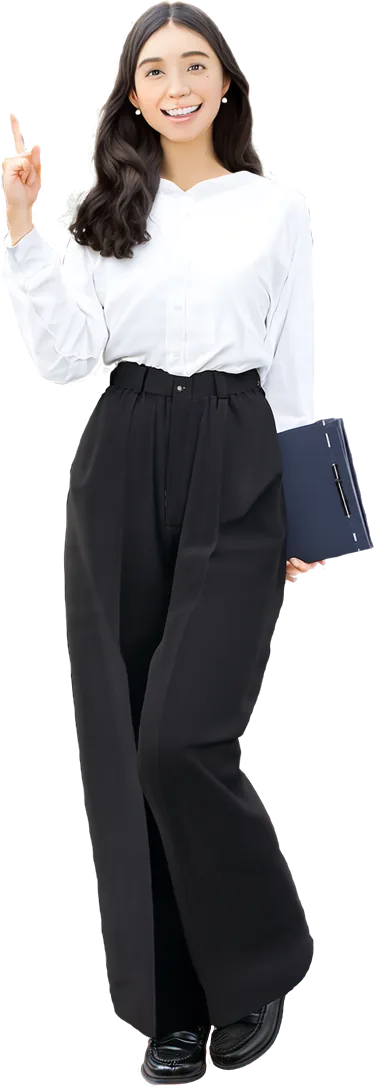
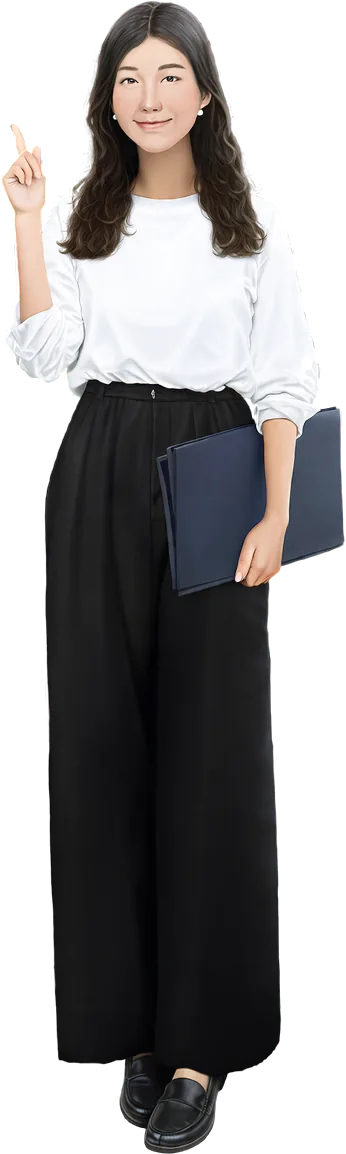
About: Answer has her own notes, and her room is set like Ask's
Where Ask's yellow notes carry a question mark, Answer's are blue with a
light bulb in the same marker, and pop out round her head the way Ask's
did. Answer is generated the way Ask was, so the two read as one kind of
photo, with a closed-mouth smile. The desk gets a takeaway coffee, a
smaller lamp and books, and a cane desk chair pulled up in front of it.

Claude-Session: https://claude.ai/code/session_012ad1UvDNx4pbuDZ2wZJ92U

diff --git a/components/about/story-scenes.tsx b/components/about/story-scenes.tsx
@@ -328,6 +328,21 @@ export function OpeningScene() {
 
 /* ── 1: and this is Answer ───────────────────────────────────────────────── */
 
+/**
+ * The answers, against Ask's questions: the same note in the same marker,
+ * blue where Ask's are yellow, with a light bulb drawn where Ask's has a
+ * question mark, popping out round Answer's head as she gets it. Two sit between the window (its right edge
+ * 658) and her raised hand, three fan out to the right above the bookshelf
+ * (its top 430); all under the title.
+ */
+const ANSWERS = [
+  { spot: "top-0 left-4 lg:top-[295px] lg:left-[1020px]", tilt: "-rotate-6", size: "h-16 lg:h-[110px]" },
+  { spot: "hidden lg:block lg:top-[250px] lg:left-[680px]", tilt: "rotate-12", size: "lg:h-[90px]" },
+  { spot: "hidden lg:block lg:top-[255px] lg:left-[1170px]", tilt: "rotate-3", size: "lg:h-[95px]" },
+  { spot: "hidden lg:block lg:top-[420px] lg:left-[1050px]", tilt: "rotate-6", size: "lg:h-[80px]" },
+  { spot: "hidden lg:block lg:top-[400px] lg:left-[690px]", tilt: "-rotate-3", size: "lg:h-[75px]" },
+] as const;
+
 function AnswerScene() {
   const t = useTranslations("about");
   return (
@@ -349,18 +364,18 @@ function AnswerScene() {
         </Part>
         {/* On the desk, left to right: the lamp at the back corner, the books,
             the coffee at the front. */}
-        <Part name="piece" spot="bottom-[100px] left-[16px] lg:bottom-[372px] lg:left-[380px]">
-          <Art className="h-14 lg:h-[140px]" name="table_lamp" />
+        <Part name="piece" spot="bottom-[100px] left-[16px] lg:bottom-[372px] lg:left-[362px]">
+          <Art className="h-12 lg:h-25" name="table_lamp" />
         </Part>
-        <Part name="piece" spot="hidden lg:block lg:bottom-[368px] lg:left-[480px]">
-          <Art className="lg:h-11.5" name="books_stack" />
+        <Part name="piece" spot="hidden lg:block lg:bottom-[368px] lg:left-[426px]">
+          <Art className="lg:h-7.5" name="books_stack" />
         </Part>
         <Part name="piece" spot="hidden lg:block lg:bottom-[366px] lg:left-[600px]">
-          <Art className="lg:h-10" name="coffee_cup" />
+          <Art className="lg:h-11.5" name="coffee_cup" />
         </Part>
-        {/* The chair faces left in its picture; turned to face the desk. */}
-        <Part name="piece" spot="hidden lg:block lg:bottom-[100px] lg:left-[120px]">
-          <Art className="-scale-x-100 lg:h-[310px]" name="cane_chair" />
+        {/* The chair is pulled up in front of the desk, a step nearer. */}
+        <Part name="piece" spot="hidden lg:block lg:bottom-[84px] lg:left-[290px] lg:z-10">
+          <Art className="lg:h-[330px]" name="desk_chair" />
         </Part>
         <Part kind="right" name="answer" spot="right-4 bottom-0 lg:right-auto lg:bottom-[100px] lg:left-[800px]">
           <Bob>
@@ -373,6 +388,11 @@ function AnswerScene() {
         <Part name="piece" spot="hidden lg:block lg:bottom-[90px] lg:left-[1390px]">
           <Art className="lg:h-[360px]" name="snake_plant" />
         </Part>
+        {ANSWERS.map(({ spot, tilt, size }) => (
+          <Part key={spot} name="note" spot={spot}>
+            <Cut name="bulb_note" size={size} tilt={tilt} />
+          </Part>
+        ))}
       </Stage>
     </Scene>
   );

diff --git a/components/about/story-parts.tsx b/components/about/story-parts.tsx
@@ -241,10 +241,11 @@ export type ArtName =
   | "plant_big"
   | "office_chair"
   | "sticky_note"
+  | "bulb_note"
   | "answer_idea"
   | "window_linen"
   | "white_desk"
-  | "cane_chair"
+  | "desk_chair"
   | "table_lamp"
   | "books_stack"
   | "coffee_cup"
@@ -295,13 +296,14 @@ const ART_SIZE: Partial<Record<ArtName, readonly [number, number]>> = {
   plant_big: [736, 1040],
   office_chair: [482, 760],
   sticky_note: [234, 240],
-  answer_idea: [374, 1088],
+  bulb_note: [240, 240],
+  answer_idea: [346, 1154],
   window_linen: [666, 1000],
   white_desk: [756, 600],
-  cane_chair: [500, 700],
+  desk_chair: [371, 700],
   table_lamp: [181, 340],
   books_stack: [310, 130],
-  coffee_cup: [152, 110],
+  coffee_cup: [94, 150],
   bookshelf: [495, 1000],
   snake_plant: [366, 900],
 };

diff --git a/components/about/story-motion.ts b/components/about/story-motion.ts
@@ -167,8 +167,11 @@ const SCENE_MOTION: Record<string, (cut: Cut) => number> = {
   s1(cut) {
     // The room was there all along, next door to Ask's: the camera has just
     // slid over to it, so everything in it, the lines too, is already in
-    // place. It holds a beat, then the lines lift off as the street comes in.
-    const length = 1.6;
+    // place. Answer's notes, a light bulb on each, pop out round her head as
+    // Ask's did, it holds a beat, then the lines lift off as the street
+    // comes in.
+    const length = 2;
+    popIn(cut, part(cut, "note").slice(1), 0.1, 0.18);
     linesOut(cut, length - 0.5);
     return length;
   },
